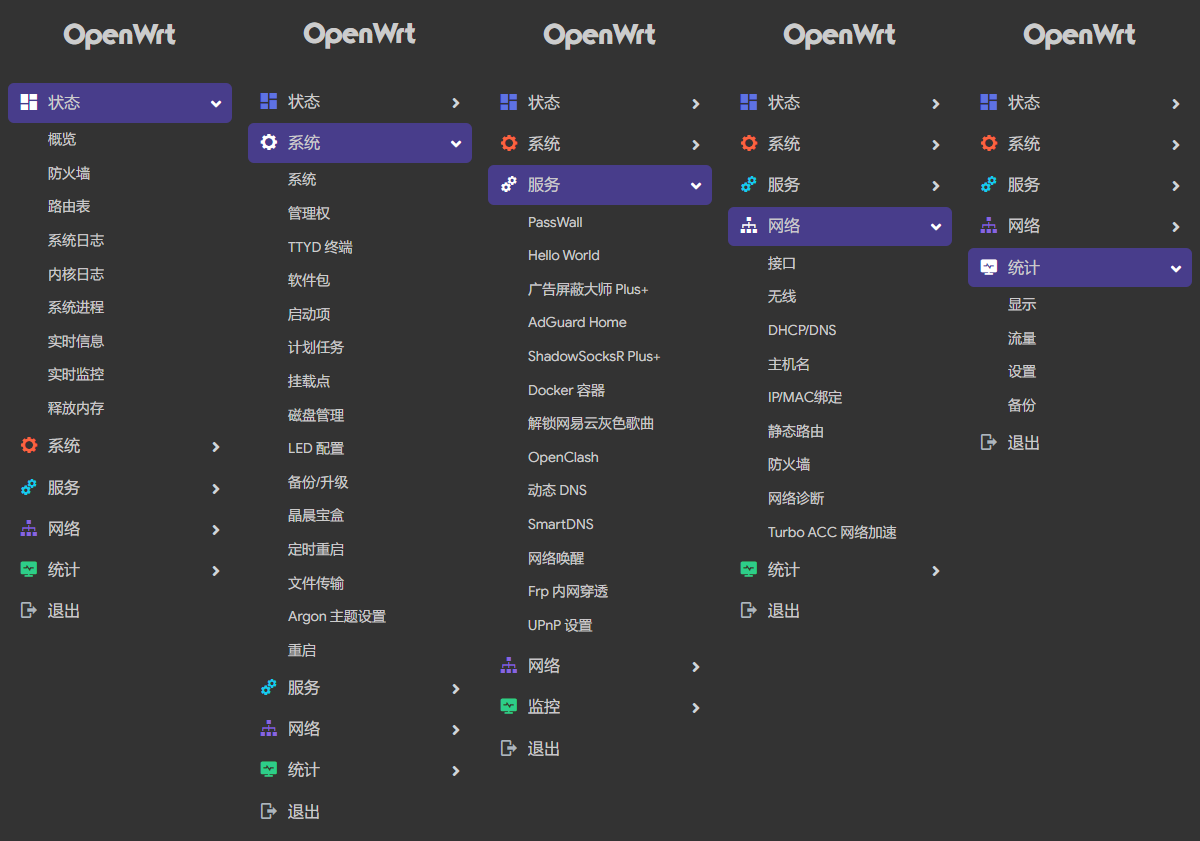
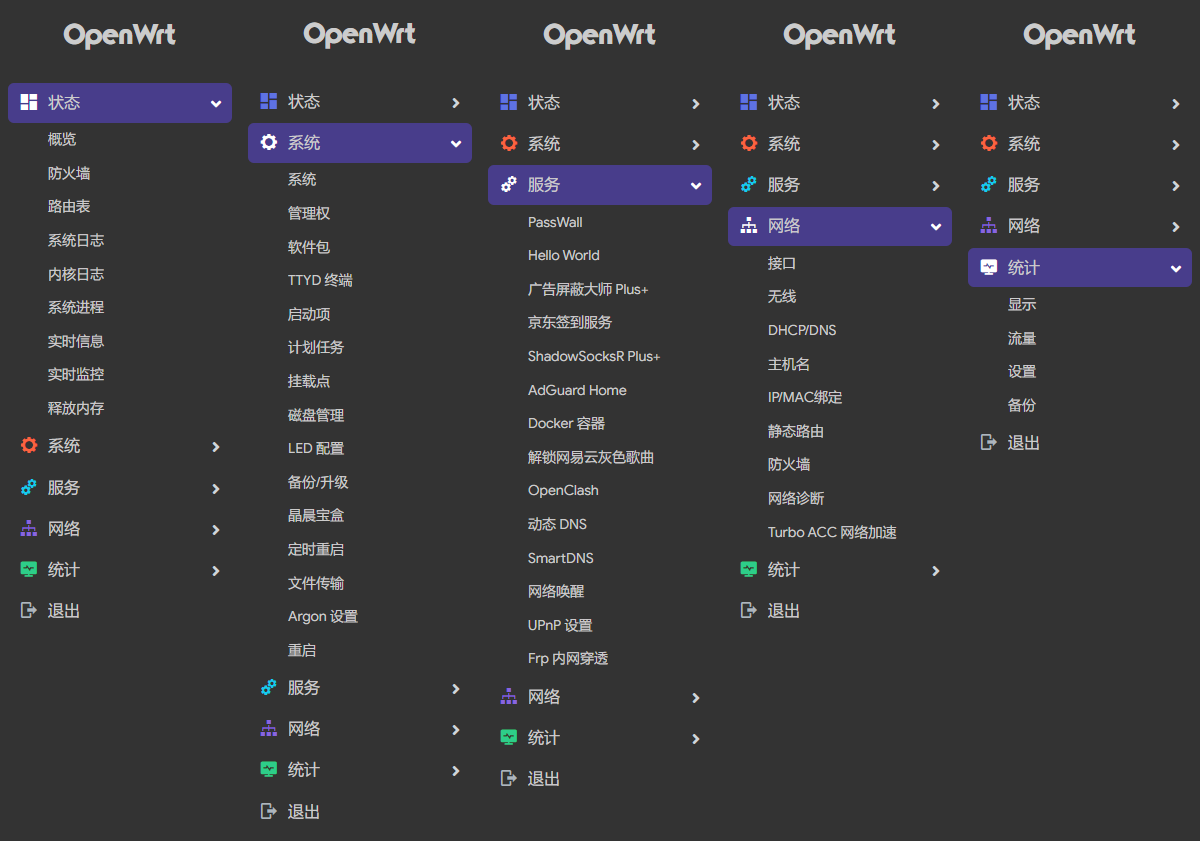
action:Mon Jun 27 00:03:13 CST 2022

diff --git a/backup/haiibo-OpenWrt/README.md b/backup/haiibo-OpenWrt/README.md
@@ -68,7 +68,6 @@
 　├── 系统进程<br/>
 　├── 实时信息<br/>
 　├── 实时监控<br/>
-　├── WireGuard 状态<br/>
 　├── 负载均衡<br/>
 　└── 释放内存
 </details>
@@ -90,7 +89,7 @@
 　├── 定时重启<br/>
 　├── 文件传输<br/>
 　├── Argon 主题设置<br/>
-　├── 重启<br/>
+　└── 重启<br/>
 　└── 关机
 </details>
 <details>
@@ -102,9 +101,8 @@
 　├── Bypass<br/>
 　├── DNS 过滤器<br/>
 　├── 广告屏蔽大师 Plus+<br/>
-　├── 阿里云盘 FUSE<br/>
-　├── 阿里云盘 WebDAV<br/>
 　├── AdGuard Home<br/>
+　├── 京东签到服务<br/>
 　├── ShadowSocksR Plus+<br/>
 　├── DDNS.to内网穿透<br/>
 　├── 易友云文件管理器<br/>
@@ -142,24 +140,21 @@
 </details>
 <details>
 <summary><b>├── 网络存储</b></summary>
-　├── 文件浏览器<br/>
 　├── 可道云<br/>
 　├── NFS 管理<br/>
 　├── 微力同步<br/>
+　├── 阿里云盘 WebDAV<br/>
 　├── qBittorrent<br/>
 　├── USB 打印服务器<br/>
 　├── 硬盘休眠<br/>
-　├── aMule设置<br/>
 　├── 挂载 SMB 网络共享<br/>
-　├── PCHIFI 数字转盘遥控<br/>
-　├── MJPG-streamer<br/>
 　├── 网络共享<br/>
 　├── FTP 服务器<br/>
 　├── Rclone<br/>
 　├── Aria2 配置<br/>
 　├── miniDLNA<br/>
 　├── Transmission<br/>
-　└── BaiduPCS Web
+　└── BaiduPCS Web<br/>
 </details>
 <details>
 <summary><b>├── VPN</b></summary>
@@ -276,8 +271,8 @@
 | [ImmortalWrt](https://github.com/immortalwrt) | [coolsnowwolf](https://github.com/coolsnowwolf) | [P3TERX](https://github.com/P3TERX) | [Flippy](https://github.com/unifreq) |
 | :-------------: | :-------------: | :-------------: | :-------------: |
 | <img width="100" src="https://avatars.githubusercontent.com/u/53193414"/> | <img width="100" src="https://avatars.githubusercontent.com/u/31687149"/> | <img width="100" src="https://avatars.githubusercontent.com/u/25927179"/> | <img width="100" src="https://avatars.githubusercontent.com/u/39355261"/> |
-| [Ophub](https://github.com/ophub) | [Breakings](https://github.com/breakings) | [QiuSimons](https://github.com/QiuSimons) | [IvanSolis1989](https://github.com/IvanSolis1989) |
-| <img width="100" src="https://avatars.githubusercontent.com/u/68696949"/> | <img width="100" src="https://avatars.githubusercontent.com/u/25475074"/> | <img width="100" src="https://avatars.githubusercontent.com/u/45143996"/> | <img width="100" src="https://avatars.githubusercontent.com/u/44228691"/> |
+| [Ophub](https://github.com/ophub) | [Jerrykuku](https://github.com/jerrykuku) | [QiuSimons](https://github.com/QiuSimons) | [IvanSolis1989](https://github.com/IvanSolis1989) |
+| <img width="100" src="https://avatars.githubusercontent.com/u/68696949"/> | <img width="100" src="https://avatars.githubusercontent.com/u/9485680"/> | <img width="100" src="https://avatars.githubusercontent.com/u/45143996"/> | <img width="100" src="https://avatars.githubusercontent.com/u/44228691"/> |
 
 
 <a href="#readme">
